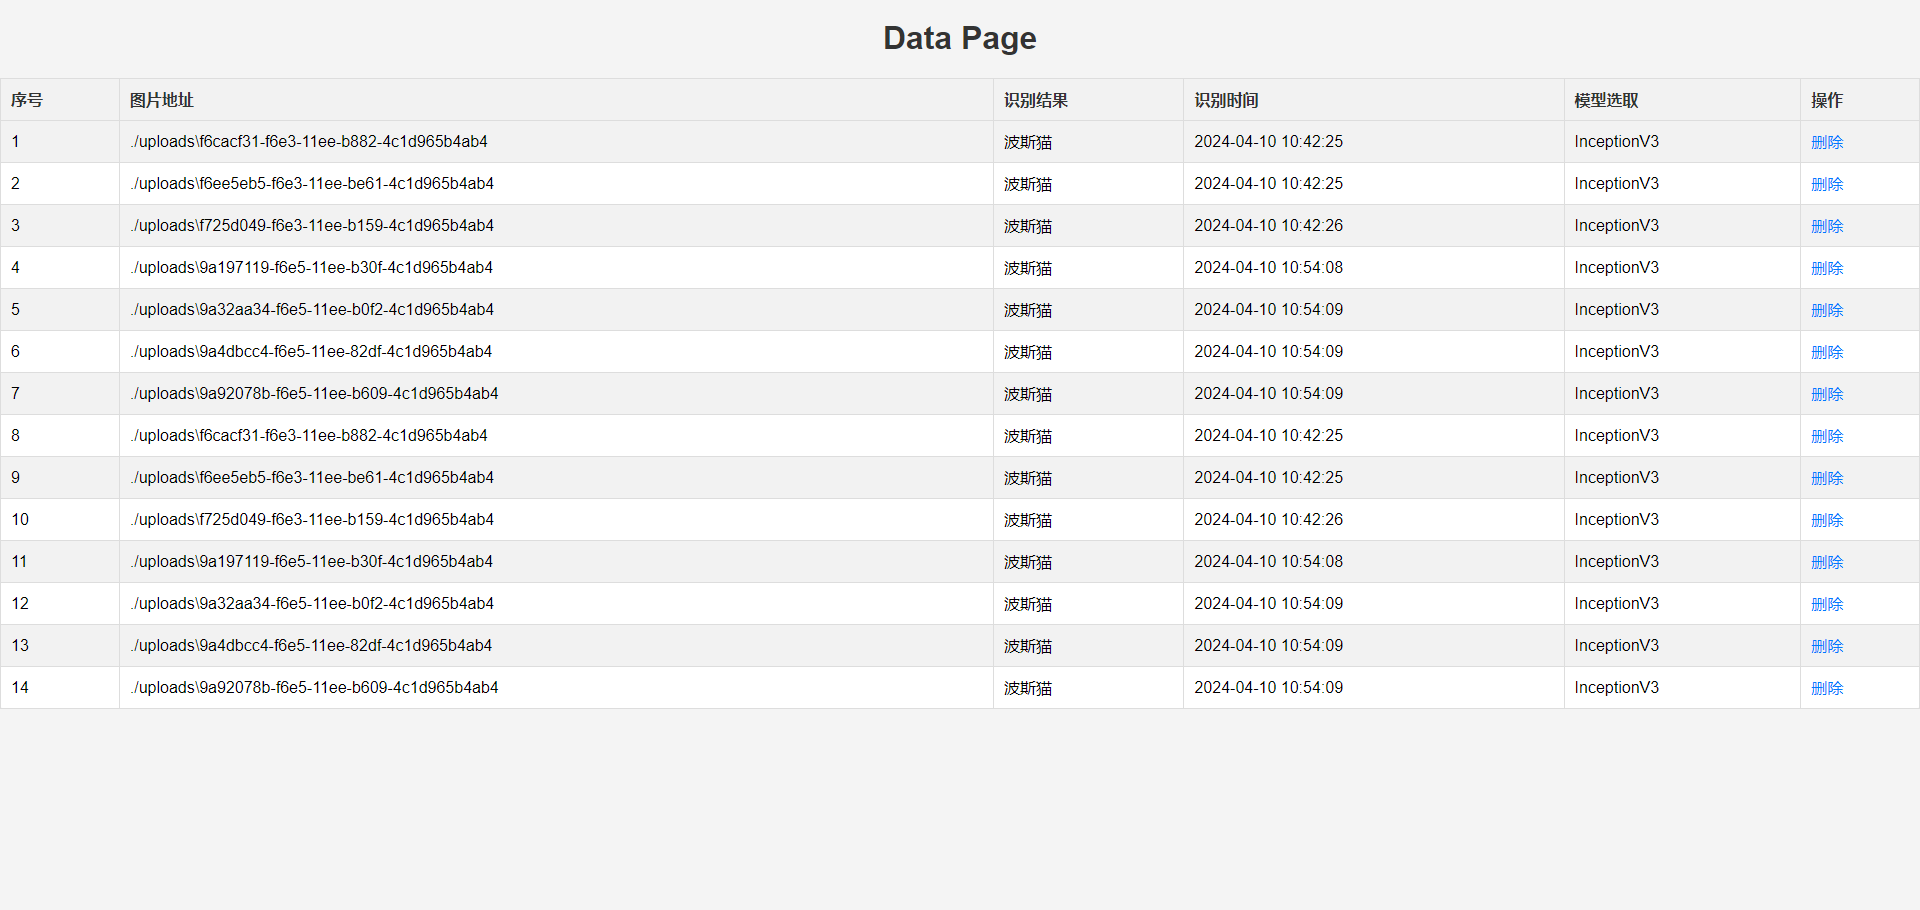
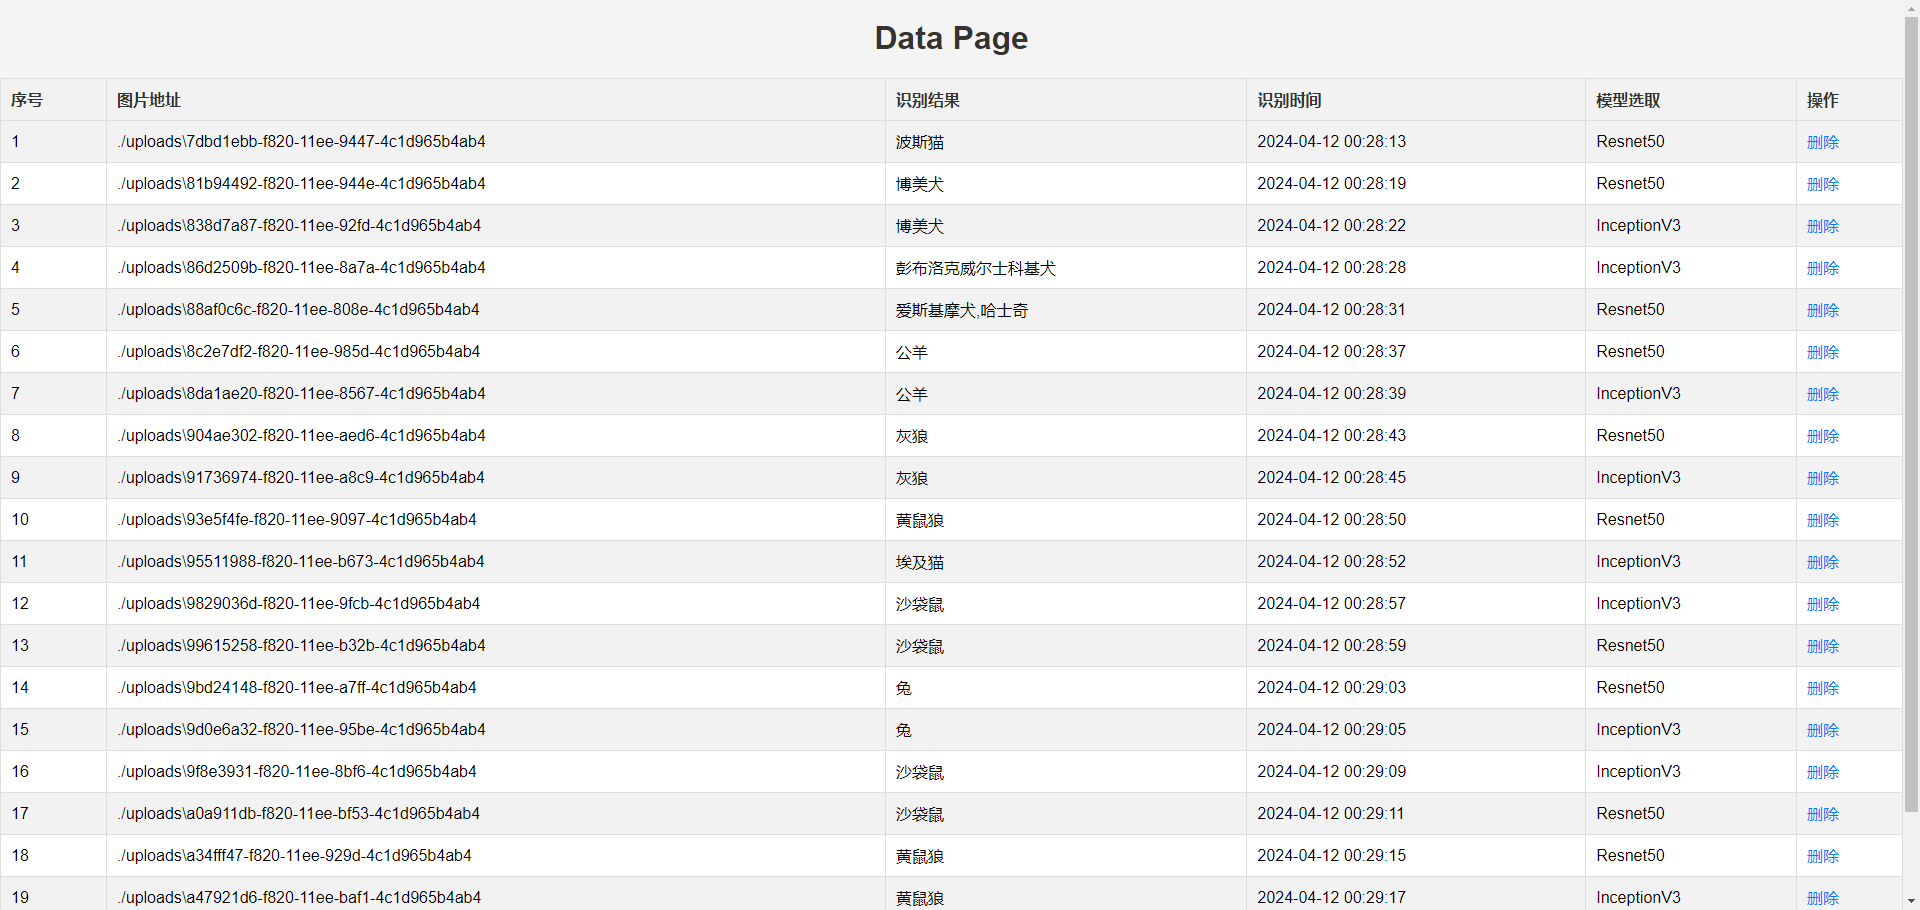
修改数据库的图片存储路径格式

diff --git a/core/server.py b/core/server.py
@@ -1,4 +1,5 @@
 # -*- encoding: utf-8 -*-
+import hashlib
 import json
 ################################################################################
 # curl "127.0.0.1:5000/classapi" -F"top=5" -F"net=inc" -F"lang=cn" -F"file=@tiger.jpg"
@@ -41,7 +42,11 @@ def predict():
             thenet = 'Resnet50'
         file = request.files['file']
         if file and allowed_file(file.filename):
-            path = os.path.join(app.config['UPLOAD_FOLDER'], str(uuid.uuid1()))
+            # 计算文件内容的哈希值
+            file_hash = hashlib.md5(file.read()).hexdigest()
+            path = os.path.join(app.config['UPLOAD_FOLDER'], file_hash)
+            # 将文件指针重置到文件开头，以便后续保存文件
+            file.seek(0)
             file.save(path)
             tags_json = network.predict(path, top, net)
             # 转为字典，提取tagname
@@ -64,7 +69,7 @@ def predict():
             }
 
             # 将数据以 JSON 格式存储在 Redis 中
-            redis_key = "tagprediction:{}".format(uuid.uuid1())
+            redis_key = "tagprediction:{}".format(file_hash)
             redis_conn.set(redis_key, json.dumps(data))
 
             # 设置数据过期时间，例如设置为 24 小时
